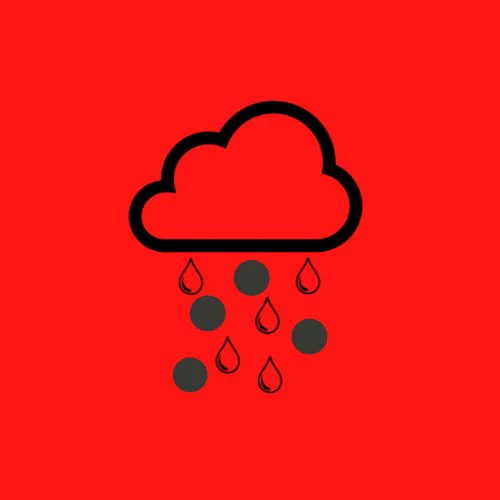
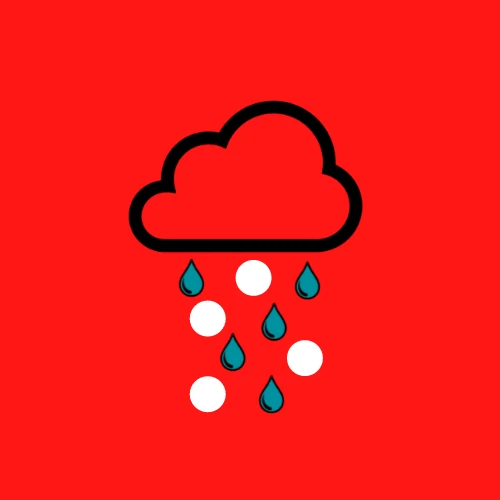
14-12-2021 | Green alerts modifications

Changed region(s): [[0.33, 0.51, 0.66, 0.84]]

diff --git a/message.py b/message.py
@@ -1,13 +1,19 @@
 def template(alertType):
-    if alertType == 'yellow':
+    if alertType == 'green':
+        return "🟢 Alerta verde\n"+\
+            "🌦 Se ha detectado minimo granizo en las nubes\n\n"+\
+            "⚠ Le recomendamos que revise la imagen usted mismo, el algoritmo puede fallar.\n"+\
+            "❓ ¿No sabe como leer la imagen? <a href=\'https://lattandifacundo.github.io/autocontingencias/docs\'>Aprenda aquí</a>."
+    
+    elif alertType == 'yellow':
         return "🟡 <b>Alerta amarilla</b>\n"+\
             "⛈ <b>Se ha detectado granizo en las nubes</b>\n\n"+\
             "⚠ Le recomendamos que revise la imagen usted mismo, el algoritmo puede fallar.\n"+\
-            "❓ ¿No sabe como leer la imagen? <a href=\'https://lattandifacundo.github.io/autocontingencias/\'>Aprenda aquí</a>."
+            "❓ ¿No sabe como leer la imagen? <a href=\'https://lattandifacundo.github.io/autocontingencias/docs\'>Aprenda aquí</a>."
     
     elif alertType == 'red':
         return "🔴 <b><u>Alerta roja</u></b>\n"+\
             "⛈ <b>Se ha detectado granizo en las nubes</b>\n\n"+\
             "⚠ Este tipo de tormentas suelen probocar descargas atmosfericas.\n"+\
             "⚠ Le recomendamos que revise la imagen usted mismo, el algoritmo puede fallar.\n"+\
-            "❓ ¿No sabe como leer la imagen? <a href=\'https://lattandifacundo.github.io/autocontingencias/\'>Aprenda aquí</a>."
+            "❓ ¿No sabe como leer la imagen? <a href=\'https://lattandifacundo.github.io/autocontingencias/docs\'>Aprenda aquí</a>."

diff --git a/scan.py b/scan.py
@@ -19,7 +19,7 @@ def scan(imagePath):
     percentageG = percentage.percentage(countG)
     print("⛈ Granizo detectado:\n\t" + str(countG) + "px\n\t" + str(percentageG) + "%")
     
-    if percentageG >= 3:
+    if percentageG >= 4:
         print("🔴 Red alert!, Sending report")
         import telegram, message, update
         update.downloadAdditions()
@@ -28,7 +28,7 @@ def scan(imagePath):
             imagesPaths=['docs/src/redAlert.webp', 'sur.gif', 'animacion.mp4'],
             needNotification=True
         )
-    elif percentageG >= 2:
+    elif percentageG >= 3:
         print("🟡 Yellow alert!, Sending report")
         import telegram, message, update
         update.downloadAdditions()
@@ -36,6 +36,15 @@ def scan(imagePath):
             text=message.template('yellow'),
             imagesPaths=['docs/src/yellowAlert.webp', 'sur.gif', 'animacion.mp4'],
             needNotification=True
+        )
+    elif percentageG >= 2.5:
+        print("🟢 Green alert!, Sending report")
+        import telegram, message, update
+        update.downloadAdditions()
+        telegram.sendPost(
+            text=message.template('green'),
+            imagesPaths=['docs/src/greenAlert.webp', 'sur.gif', 'animacion.mp4'],
+            needNotification=False
         )
     else:
         print("✔ No report needed")
